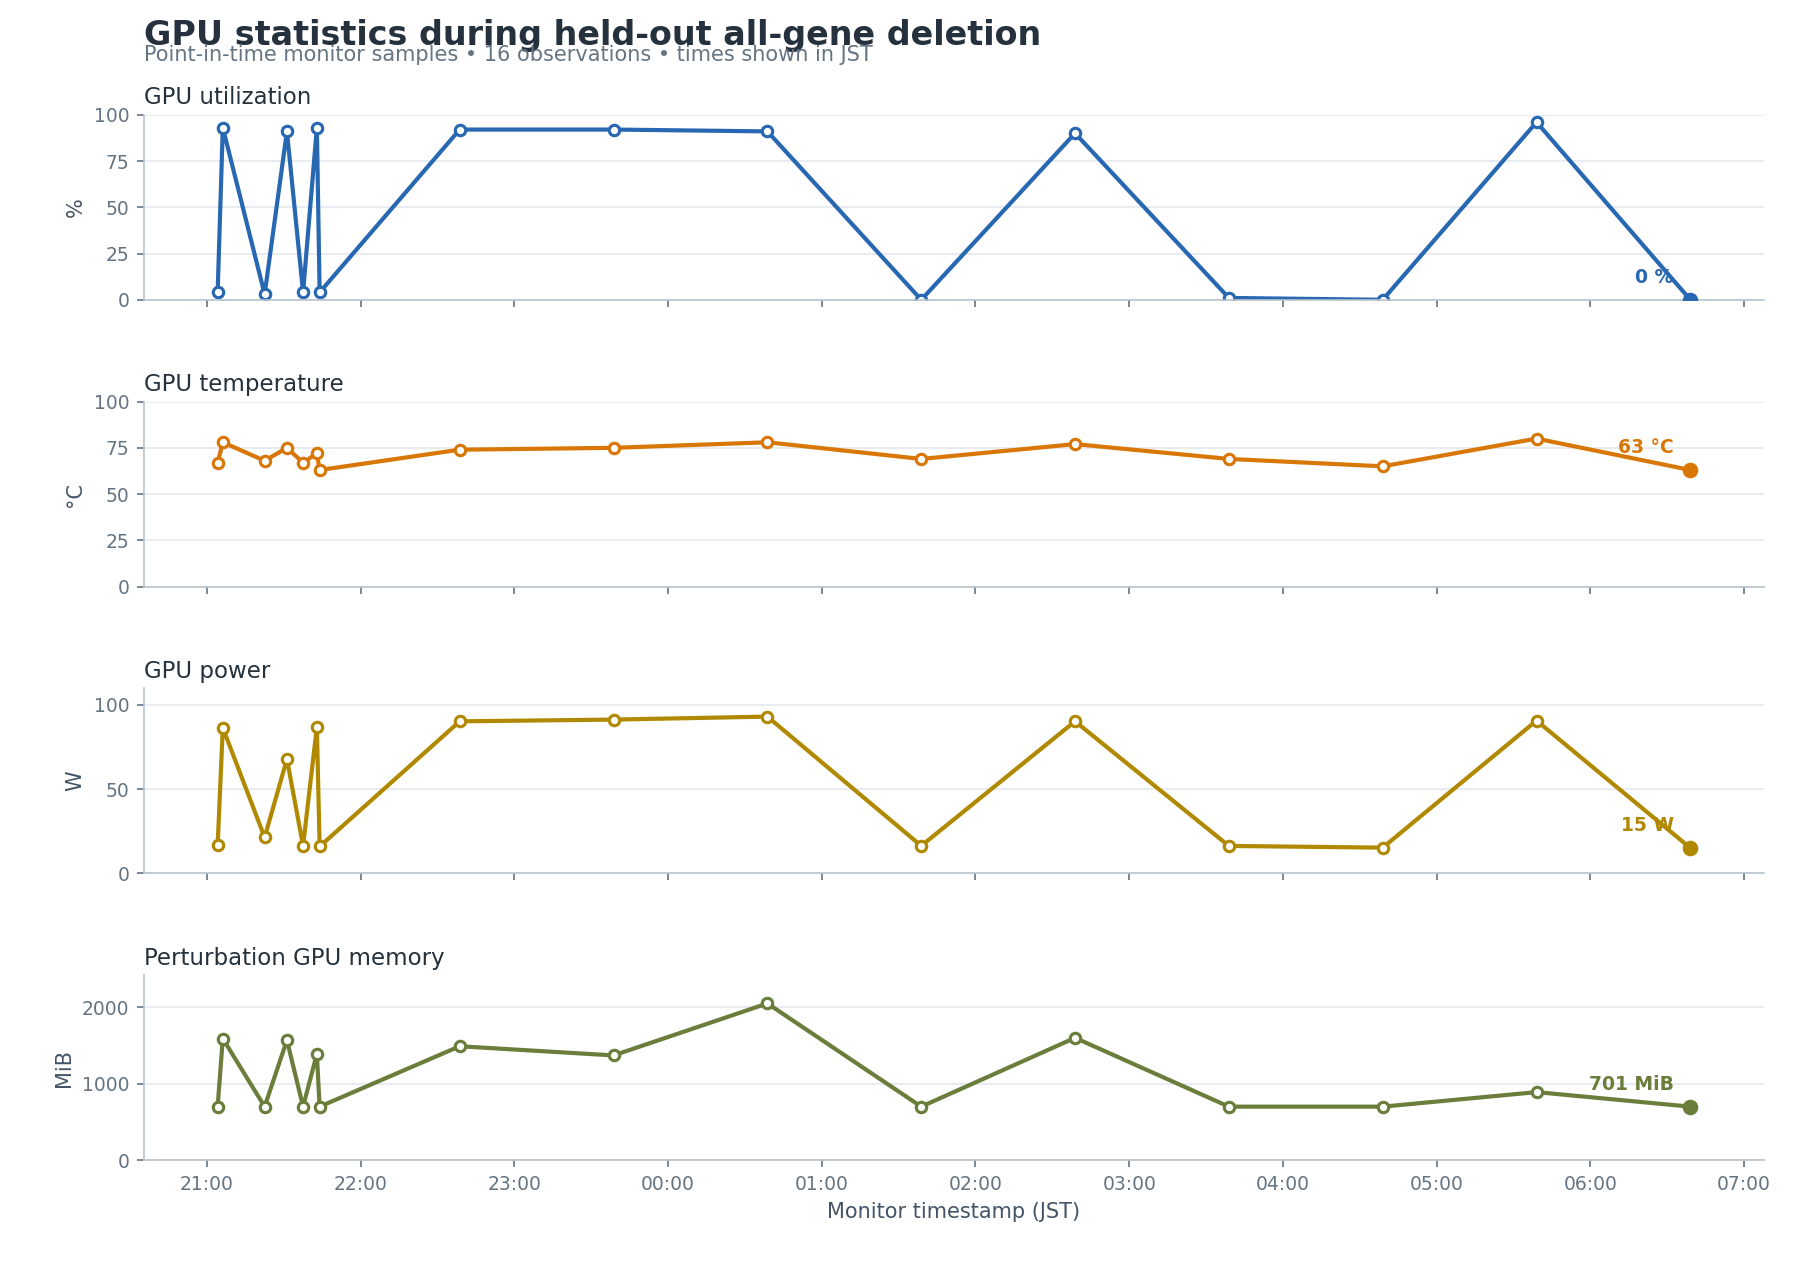
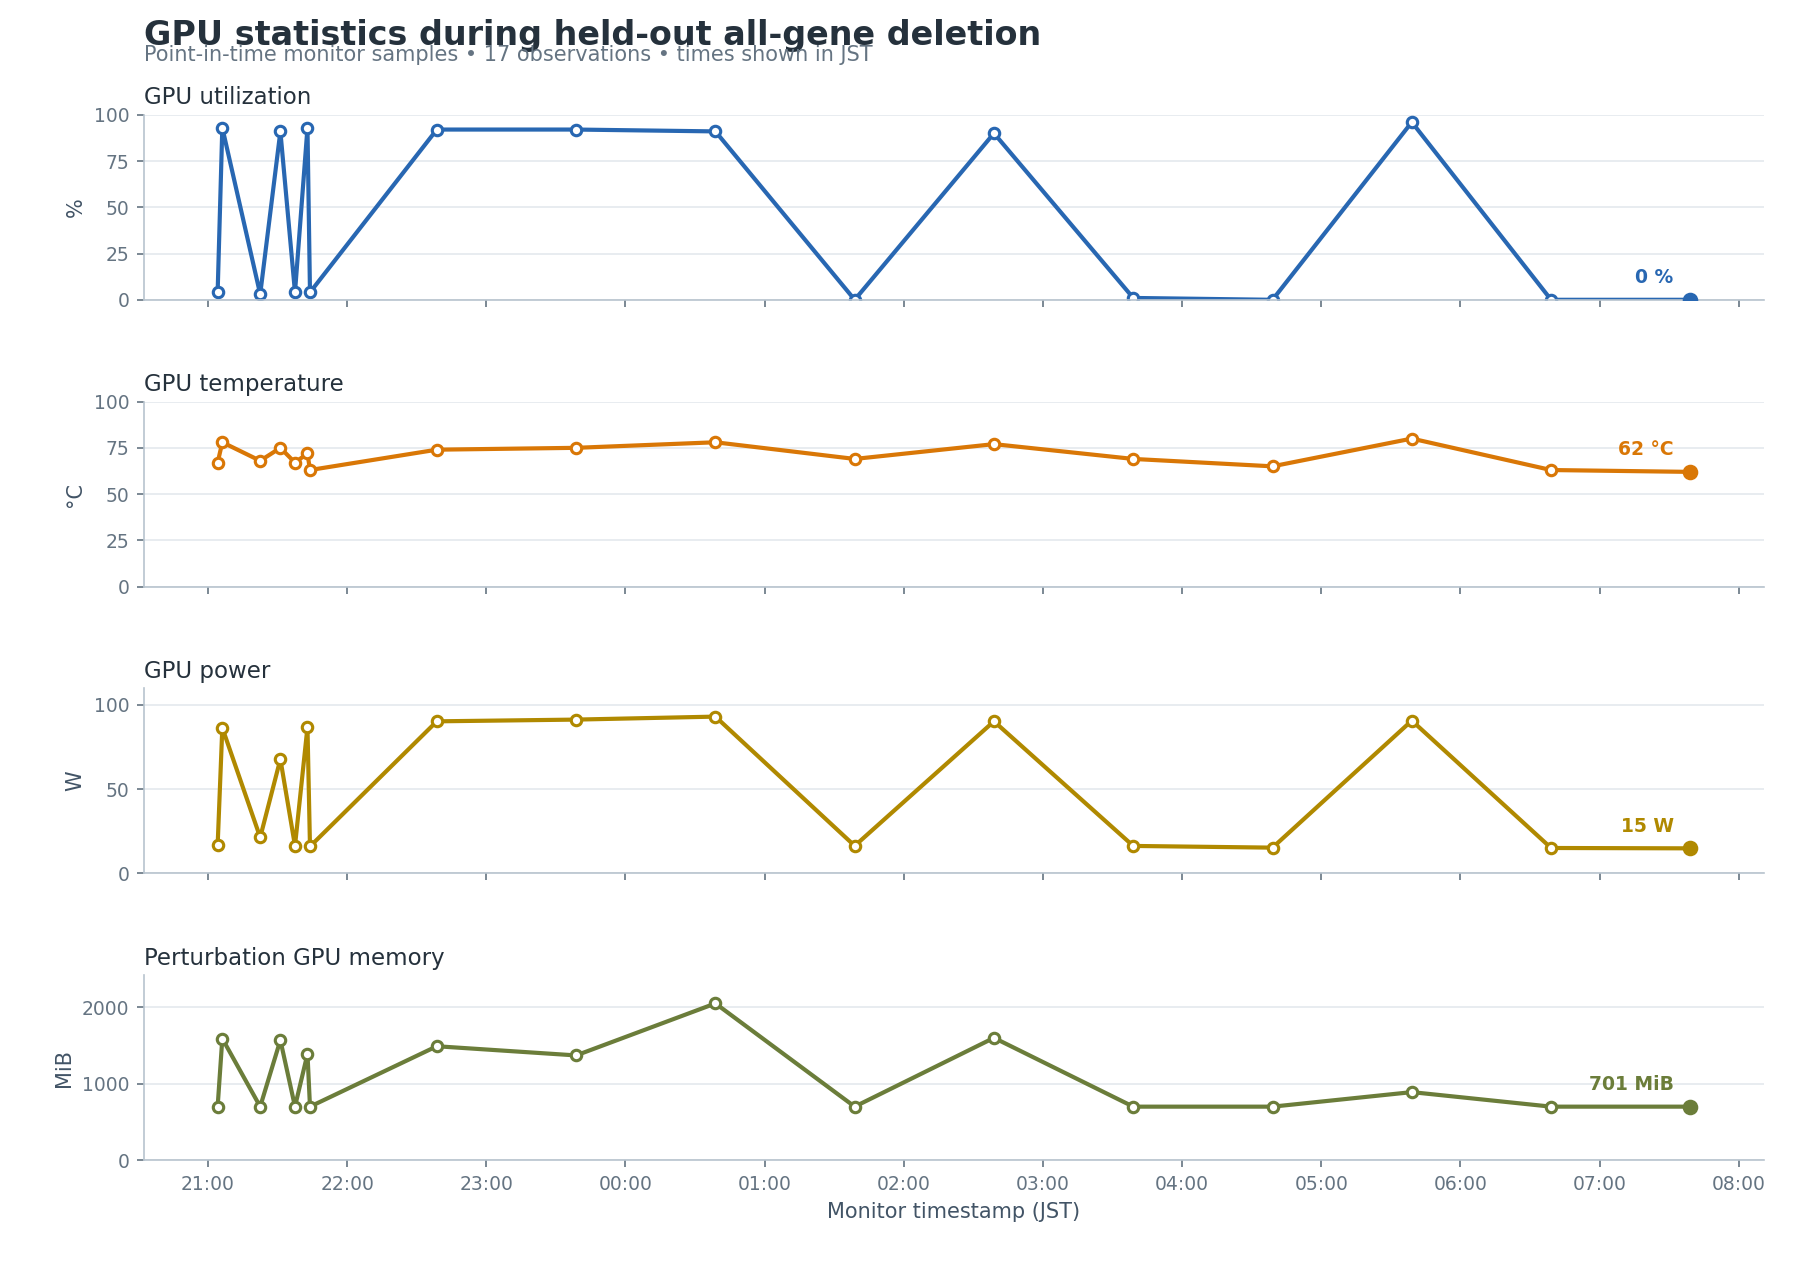
monitor: update perturbation status 2026-07-18 07:39 JST

diff --git a/current_workflow/monitoring/GPU_PROGRESS_REPORT.md b/current_workflow/monitoring/GPU_PROGRESS_REPORT.md
@@ -14,6 +14,39 @@ Newest snapshots appear first. Existing entries are retained below; the machine-
 
 ---
 
+## Snapshot — 2026-07-18T07:39:07+09:00
+
+Run status: **RUNNING**
+
+Overall cell progress: **1,577 / 3,379 (46.67%)**
+
+### GPU and memory
+
+| Metric | Current value |
+|---|---:|
+| GPU | NVIDIA GB10 |
+| GPU utilization | 0% |
+| GPU temperature | 62 C |
+| GPU power | 14.9 W |
+| Perturbation GPU memory | 701 MiB |
+| System memory used | 41.5 GiB |
+| System memory available | 78.2 GiB |
+| Swap used | 0.0 GiB |
+
+### Perturbation progress
+
+| Source | Cells written | Shards complete | Raw files |
+|---|---:|---:|---:|
+| LUSC | 560 / 560 (100.00%) | 23 / 23 | 1,120 |
+| LUAD | 1,017 / 1,411 (72.08%) | 40 / 57 | 2,034 |
+| NORMAL | 0 / 1,408 (0.00%) | 0 / 57 | 0 |
+
+Statistics are generated after all shards for a source state complete. Cell
+counts include only cells with both raw checkpoint batches present.
+
+
+---
+
 ## Snapshot — 2026-07-18T06:39:04+09:00
 
 Run status: **RUNNING**
